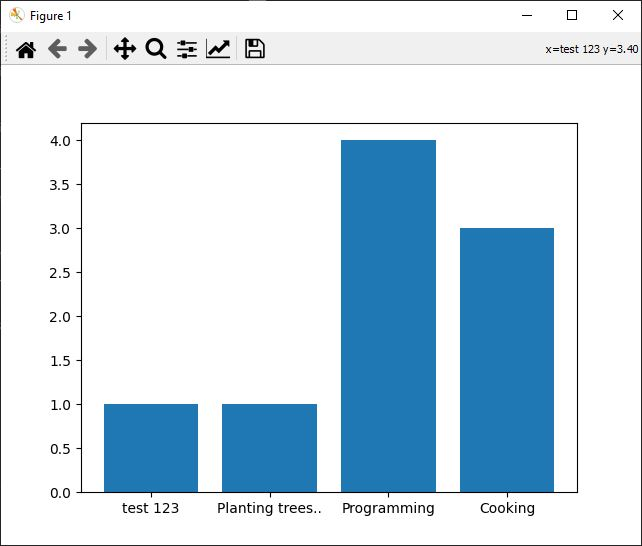
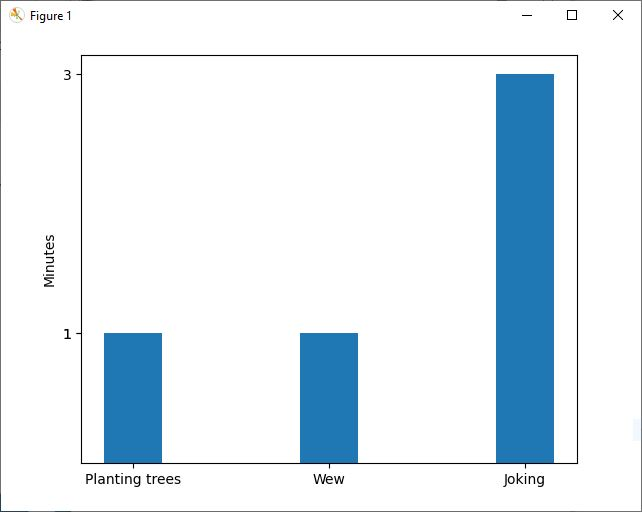
updated Plot.py

diff --git a/src/Plot.py b/src/Plot.py
@@ -1,5 +1,5 @@
 from database.DatabaseUtilities import DatabaseUtilities as dbu
-import matplotlib
+import matplotlib as mpl
 import matplotlib.pyplot as plt
 
 class Plot():
@@ -10,14 +10,14 @@ class Plot():
         """ Prepare variables to plot """
         records,minutes = self.prepareVariablesToPlot(self, data)
         """ Create plot"""
-        self.configurePlot(self)
+        self.configurePlot(self, minutes)
         plt.bar(records, minutes, align='center', width=0.3)
         plt.show()
 
-    def configurePlot(self):
-        matplotlib.rcParams['toolbar'] = 'none'
-        plt.subplots_adjust(bottom = 0.1, top = 1)
-        plt.suptitle("Your doings")
+    def configurePlot(self, minutes):
+        mpl.rcParams['toolbar'] = 'none'
+        plt.yticks(minutes)
+        plt.subplots_adjust(bottom = 0.1, top = 0.95)
         plt.ylabel("Minutes")
 
     def prepareVariablesToPlot(self, data):
